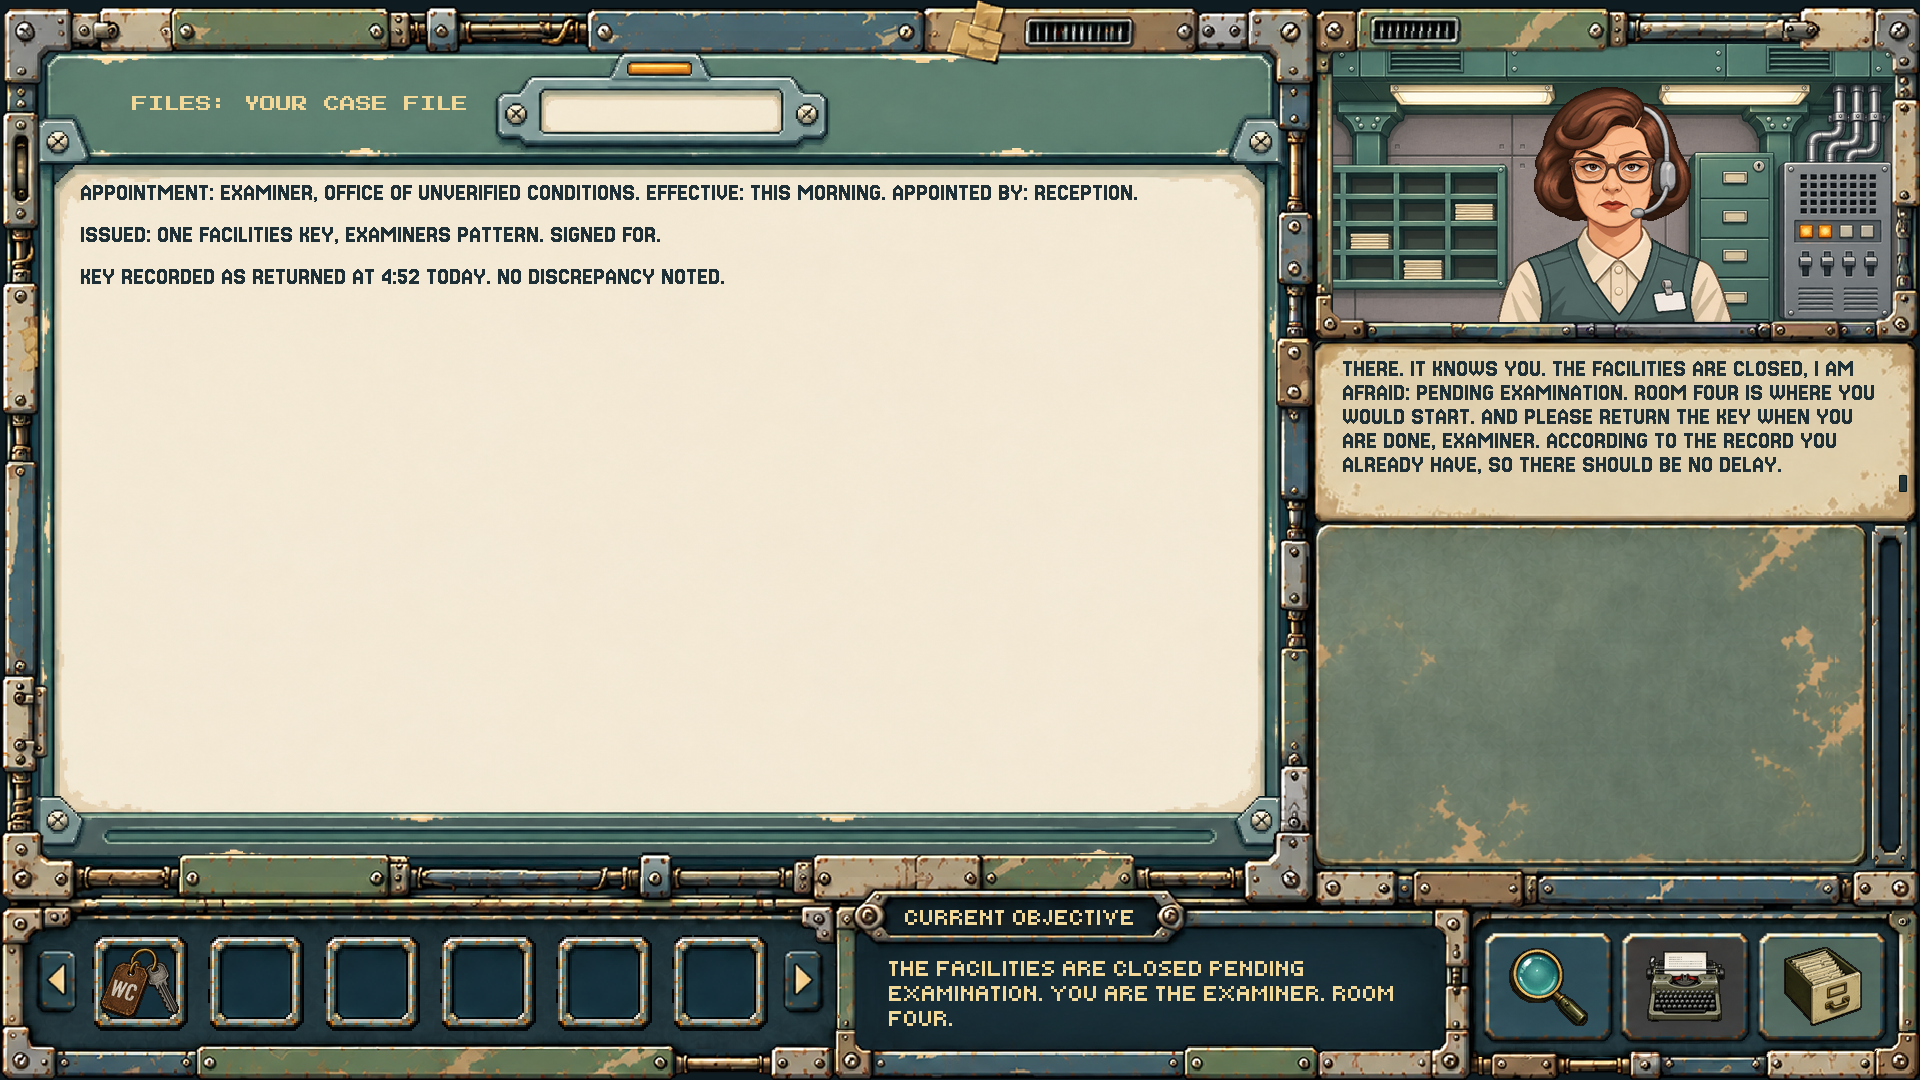
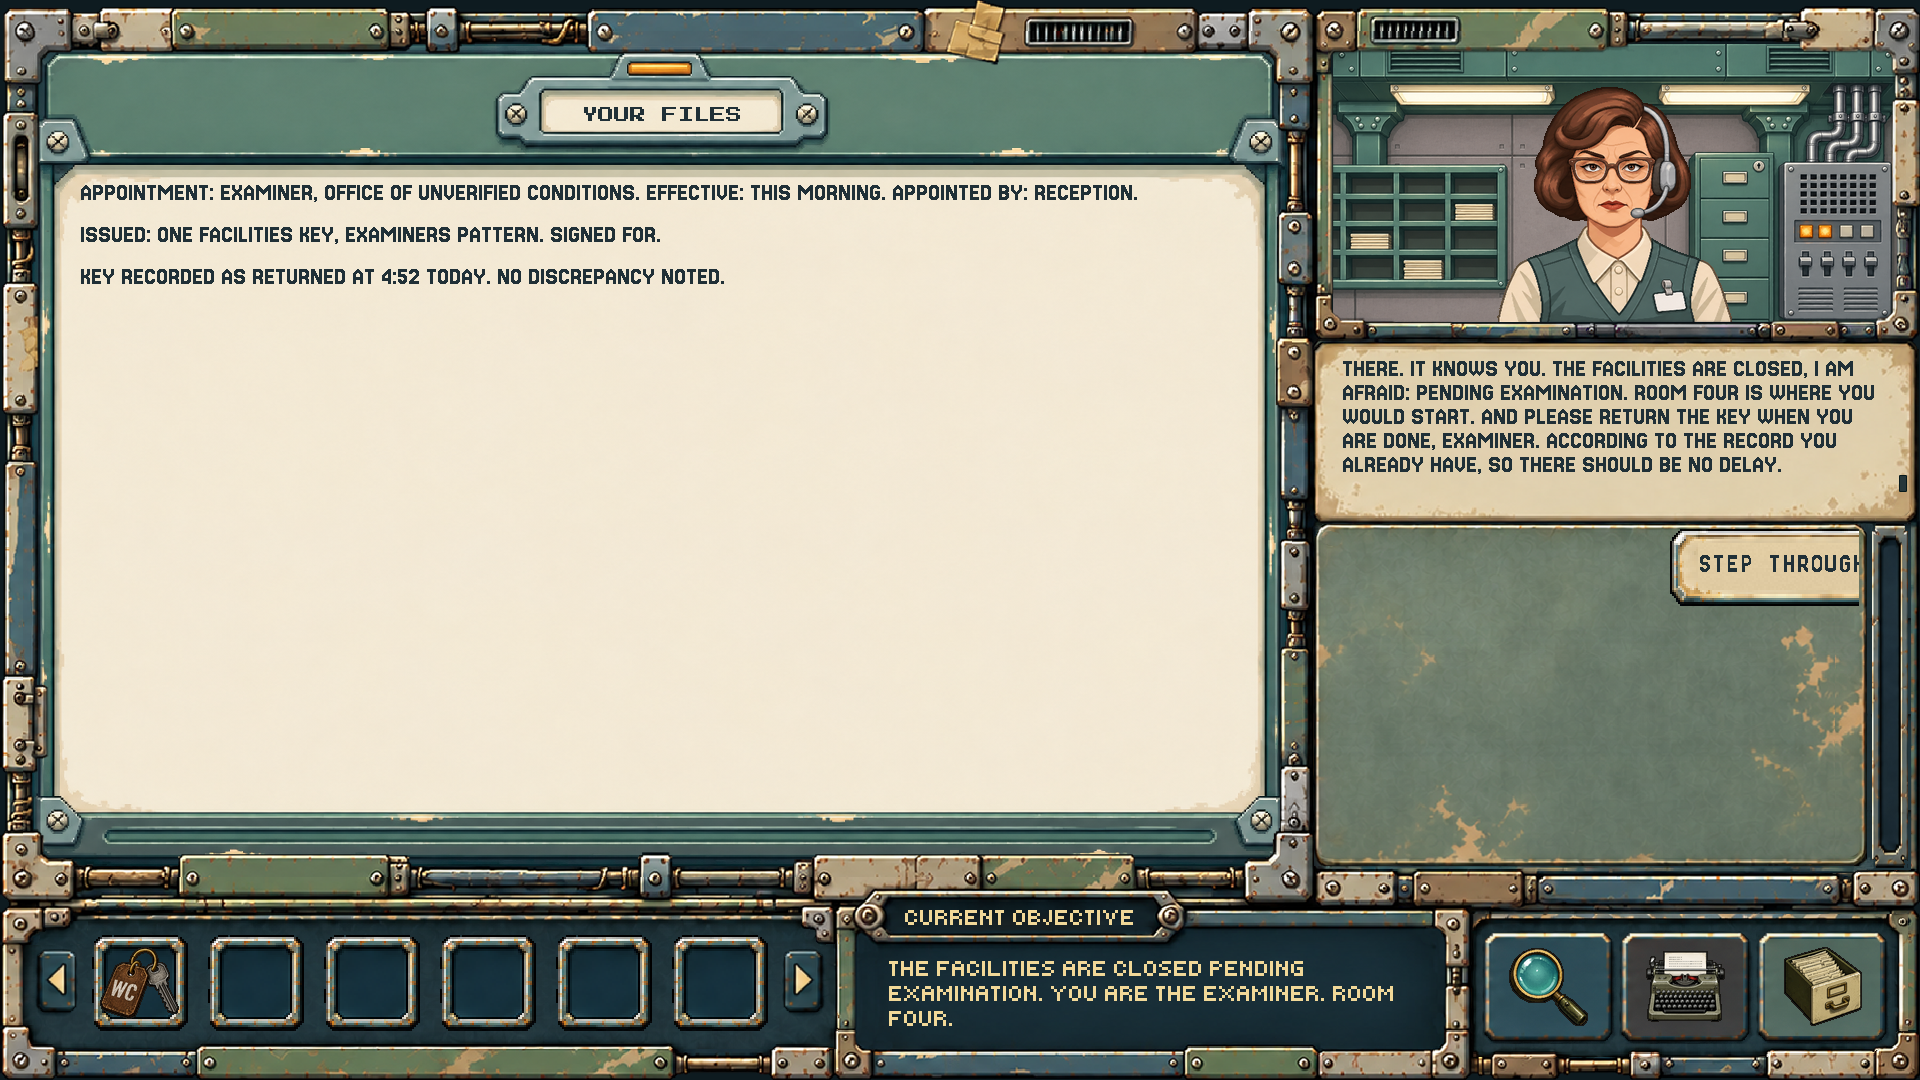
FILES title: YOUR FILES, dark ink, centred in the panel's label plate
Owner ruling 2026-11-07. The title (160 px in the Labels face) is centred on
(630, 70), the middle of the FILES panel's label plate (inside x 512-748,
y 52-87), from G.TUNING.overlay.filesTitleCenterX / Y; lab tunables
overlay.filesTitleX / Y (71 total). NOTES title unchanged. Game QA checks the
dark ink and that the title sits wholly inside the plate, centred within 1 px.
QA on this commit's tree: route 38/38, lab 85/85, game 447/447. docs/62, docs/63.

diff --git a/game/qa/run_qa.js b/game/qa/run_qa.js
@@ -1069,7 +1069,7 @@ async function suite(name, base, requests) {
 
   // Pixels: where the text canvas is empty and the shell is clear, the screen is the overlay's own
   // panel file, 1:1 (NOTES: notes_files_panel.png, FILES: files_panel.png).
-  async function panelPixels(label, art) {
+  async function panelPixels(label, art, plate) {
     const S = measured.sceneAperture.rect;
     c(label + ' shows its own panel image', (await page.$eval('#overlayPanel', (e) => e.dataset.art)) === art, art);
     const scr = decodePng(await page.screenshot({ clip: { x: 0, y: 0, width: 1920, height: 1080 } }));
@@ -1077,16 +1077,31 @@ async function suite(name, base, requests) {
     const panel = png(art), shell = png(SHELL_PATH);
     let checked = 0, bad = 0, textPx = 0, first = null;
     const inks = { title: new Set(), body: new Set() };
+    const tb = [1e9, 1e9, -1, -1];
     for (let y = 0; y < 822; y++) for (let x = 0; x < 1255; x++) {
       const t = pxAt(cvPng, x, y);
-      if (t[3] !== 0) { textPx++; (y < 116 ? inks.title : inks.body).add(t.slice(0, 3).join()); continue; }
+      if (t[3] !== 0) {
+        textPx++;
+        (y < 116 ? inks.title : inks.body).add(t.slice(0, 3).join());
+        if (y < 116) { tb[0] = Math.min(tb[0], x); tb[1] = Math.min(tb[1], y); tb[2] = Math.max(tb[2], x); tb[3] = Math.max(tb[3], y); }
+        continue;
+      }
       if (pxAt(shell, S[0] + x, S[1] + y)[3] !== 0) continue;
       checked++;
       if (!sameRgb(pxAt(panel, x, y), pxAt(scr, S[0] + x, S[1] + y))) { bad++; first = first || { x, y }; }
     }
     c(label + ': every clear-shell, text-free overlay pixel equals its 1255x822 panel file 1:1', checked > 800000 && bad === 0 && textPx > 1000, { checked, bad, textPx, first });
-    c(label + ' ink: light title on the teal band, dark text on the cream reading area (one ink each, hard-edged)',
-      inks.title.size === 1 && inks.body.size === 1 && [...inks.body][0] === '32,48,55', { title: [...inks.title], body: [...inks.body] });
+    if (!plate) {
+      c(label + ' ink: light title on the teal band, dark text on the cream reading area (one ink each, hard-edged)',
+        inks.title.size === 1 && [...inks.title][0] !== '32,48,55' && inks.body.size === 1 && [...inks.body][0] === '32,48,55', { title: [...inks.title], body: [...inks.body] });
+    } else {
+      // plate = [x0, y0, x1, y1] inside the label plate's border, inclusive; centre [cx, cy].
+      const cx = (tb[0] + tb[2] + 1) / 2, cy = (tb[1] + tb[3] + 1) / 2;
+      c(label + ' ink: dark title and dark text (one ink each, hard-edged)', inks.title.size === 1 && [...inks.title][0] === '32,48,55'
+        && inks.body.size === 1 && [...inks.body][0] === '32,48,55', { title: [...inks.title], body: [...inks.body] });
+      c(label + ' title sits wholly inside the label plate, centred on it (within 1 px)', tb[0] > plate[0] && tb[1] > plate[1] && tb[2] < plate[2] && tb[3] < plate[3]
+        && Math.abs(cx - plate[4]) <= 1 && Math.abs(cy - plate[5]) <= 1, { inkBox: tb, centre: [cx, cy], plate });
+    }
   }
 
   // Transcript: NOTES and FILES ---------------------------------------------------------------
@@ -1141,9 +1156,9 @@ async function suite(name, base, requests) {
     && /RETURNED AT 4:52/.test(await page.$eval('#overlay canvas', (c2) => c2.dataset.text)));
   await shot(page, '10_files_case_file.png');
   await shot(page, '00h_files_open.png');
-  await panelPixels('FILES', FILES_PANEL);
-  c('the FILES title sits on the panel, fixed outside the scrolled body', (await page.$eval('#overlayCanvas', (c2) => c2.dataset.title)) === 'FILES: YOUR CASE FILE'
-    && /^FILES: YOUR CASE FILE\nAPPOINTMENT: EXAMINER/.test(await page.$eval('#overlayCanvas', (c2) => c2.dataset.text)));
+  await panelPixels('FILES', FILES_PANEL, [512, 52, 748, 87, 630, 70]);
+  c('the FILES title is YOUR FILES, fixed outside the scrolled body', (await page.$eval('#overlayCanvas', (c2) => c2.dataset.title)) === 'YOUR FILES'
+    && /^YOUR FILES\nAPPOINTMENT: EXAMINER/.test(await page.$eval('#overlayCanvas', (c2) => c2.dataset.text)));
   await page.click('#util-2');
   c('pressing FILES again closes the overlay', await page.$eval('#overlay', (e) => e.style.display === 'none'));
   await page.click('#util-2');

diff --git a/game/js/stage.js b/game/js/stage.js
@@ -1064,8 +1064,8 @@
   // NOTES (transcript) and FILES (case file) ---------------------------------------------
   // Shown over the scene window, which they never leave, each on its own production panel
   // (1255x822, the scene aperture, docs/60 and docs/63): NOTES on the records panel, FILES on the
-  // case-file panel. Text regions, in panel coordinates, fit both panels' blank areas: the title on
-  // the teal band (y 11-108), the body on the cream reading area (NOTES x 31-1222 y 122-776, FILES
+  // case-file panel. Text regions, in panel coordinates, fit both panels' blank areas: the NOTES
+  // title on the teal band (y 11-108), the FILES title in its label plate, the body on the cream reading area (NOTES x 31-1222 y 122-776, FILES
   // x 28-1225 y 133-767). The body keeps the previous left edge and wrap width, so lines break
   // exactly as before.
   G.OVERLAY_ART = {
@@ -1105,7 +1105,7 @@
   }
 
   function overlayTitle() {
-    return ui.overlay === 'notes' ? 'NOTES: EVERYTHING SAID AT RECEPTION' : 'FILES: YOUR CASE FILE';
+    return ui.overlay === 'notes' ? 'NOTES: EVERYTHING SAID AT RECEPTION' : 'YOUR FILES';
   }
 
   function overlayLines() {
@@ -1173,8 +1173,15 @@
     ctx.imageSmoothingEnabled = false;
     var title = overlayTitle();
     var head = document.createElement('canvas');
-    T.draw(head, [{ text: title, role: 'labels' }], 'light', OV().lineHeight, OV().bodyWidth, OV().lineHeight, undefined, 'labels');
-    ctx.drawImage(head, OV().titleX, OV().titleCenterY - Math.floor(T.capHeight('labels') / 2));
+    if (ui.overlay === 'files') {
+      // Dark ink, centred in the FILES panel's label plate.
+      var size = T.label(head, title, 'dark', 'labels');
+      var rows = inkRows(head);
+      ctx.drawImage(head, OV().filesTitleCenterX - Math.floor(size[0] / 2), OV().filesTitleCenterY - Math.round((rows[0] + rows[1]) / 2));
+    } else {
+      T.draw(head, [{ text: title, role: 'labels' }], 'light', OV().lineHeight, OV().bodyWidth, OV().lineHeight, undefined, 'labels');
+      ctx.drawImage(head, OV().titleX, OV().titleCenterY - Math.floor(T.capHeight('labels') / 2));
+    }
     var text = document.createElement('canvas');
     // Dark ink on the cream reading surface.
     T.draw(text, shown.map(function (l, i) { return { text: l.text, role: l.role, gap: i ? l.gap : 0 }; }), 'dark', OV().lineHeight, OV().bodyWidth, OV().bodyHeight, undefined, 'dialogue');
@@ -1184,7 +1191,7 @@
     c.dataset.lines = lines.length;
     c.dataset.scroll = ui.overlayScroll;
     c.dataset.text = [title].concat(lines.map(function (l) { return l.text; })).join('\n');
-    els.overlay.setAttribute('aria-label', ui.overlay === 'notes' ? 'Notes: transcript' : 'Files: case file');
+    els.overlay.setAttribute('aria-label', ui.overlay === 'notes' ? 'Notes: transcript' : 'Files: your files');
   }
   G.renderOverlay = renderOverlay;
 

diff --git a/tools/m2-reception-polish-lab/tunables.js b/tools/m2-reception-polish-lab/tunables.js
@@ -140,10 +140,14 @@
       read: function (G) { return tun(G).inspector.textY; }, write: function (G, v) { tun(G).inspector.textY = v; } },
 
     // NOTES / FILES text (1255x822 panel art at 1x, scene-only, no scrollbar).
-    { key: 'overlay.titleX', s: 'overlay', label: 'Title X', unit: 'px', src: 'G.TUNING.overlay.titleX', range: [-60, 60], rel: true,
+    { key: 'overlay.titleX', s: 'overlay', label: 'NOTES title X', unit: 'px', src: 'G.TUNING.overlay.titleX', range: [-60, 60], rel: true,
       read: function (G) { return tun(G).overlay.titleX; }, write: function (G, v) { tun(G).overlay.titleX = v; } },
-    { key: 'overlay.titleY', s: 'overlay', label: 'Title middle row Y', unit: 'px', src: 'G.TUNING.overlay.titleCenterY', range: [-30, 30], rel: true,
+    { key: 'overlay.titleY', s: 'overlay', label: 'NOTES title middle row Y', unit: 'px', src: 'G.TUNING.overlay.titleCenterY', range: [-30, 30], rel: true,
       read: function (G) { return tun(G).overlay.titleCenterY; }, write: function (G, v) { tun(G).overlay.titleCenterY = v; } },
+    { key: 'overlay.filesTitleX', s: 'overlay', label: 'FILES title centre X (label plate)', unit: 'px', src: 'G.TUNING.overlay.filesTitleCenterX', range: [-40, 40], rel: true,
+      read: function (G) { return tun(G).overlay.filesTitleCenterX; }, write: function (G, v) { tun(G).overlay.filesTitleCenterX = v; } },
+    { key: 'overlay.filesTitleY', s: 'overlay', label: 'FILES title middle row Y (label plate)', unit: 'px', src: 'G.TUNING.overlay.filesTitleCenterY', range: [-12, 12], rel: true,
+      read: function (G) { return tun(G).overlay.filesTitleCenterY; }, write: function (G, v) { tun(G).overlay.filesTitleCenterY = v; } },
     { key: 'overlay.bodyX', s: 'overlay', label: 'Body X', unit: 'px', src: 'G.TUNING.overlay.bodyX', range: [-30, 40], rel: true,
       read: function (G) { return tun(G).overlay.bodyX; }, write: function (G, v) { tun(G).overlay.bodyX = v; } },
     { key: 'overlay.bodyY', s: 'overlay', label: 'Body Y', unit: 'px', src: 'G.TUNING.overlay.bodyY', range: [-30, 40], rel: true,

diff --git a/game/js/tuning.js b/game/js/tuning.js
@@ -30,11 +30,15 @@
     // the item text's x relative to the choice text inset, and its top.
     inspector: { artDx: 0, artDy: 0, closeDx: 0, closeDy: 0, textDx: 0, textY: 12 },
 
-    // NOTES / FILES overlay (js/stage.js), in panel coordinates: title on the teal plate, body on
-    // the cream reading area, and the body line height.
+    // NOTES / FILES overlay (js/stage.js), in panel coordinates: the NOTES title at (titleX, centred
+    // on titleCenterY) in light ink on the teal band; the FILES title (YOUR FILES, owner ruling
+    // 2026-11-07, docs/63) in dark ink centred on (filesTitleCenterX, filesTitleCenterY), the middle
+    // of the FILES panel's label plate (inside x 512-748, y 52-87); the body box on the cream
+    // reading area, and the body line height.
     // notesPanel picks the NOTES panel art: 1 = notes_files_panel.png (production), 2 = the owner's
     // notes_panel_v2.png candidate (docs/63). FILES always uses its own files_panel.png.
-    overlay: { titleX: 100, titleCenterY: 60, bodyX: 48, bodyY: 140, bodyWidth: 1159, bodyHeight: 620, lineHeight: 26, notesPanel: 1 },
+    overlay: { titleX: 100, titleCenterY: 60, bodyX: 48, bodyY: 140, bodyWidth: 1159, bodyHeight: 620, lineHeight: 26, notesPanel: 1,
+      filesTitleCenterX: 630, filesTitleCenterY: 70 },
 
     // Dialogue-turn timing not held in the layout bundle: the beat between a finished line and
     // the choices arriving (js/flow.js), and the stagger between arriving cards (js/stage.js).

diff --git a/docs/62_M2_RECEPTION_POLISH_LAB.md b/docs/62_M2_RECEPTION_POLISH_LAB.md
@@ -61,7 +61,7 @@ Art complete is not polish complete. The lab is the final visual and interaction
 - **Inventory:** the slot concept and slot / arrow art.
   - Production shows **6 slots** (`slotCount` 6; a 7-slot layout exists in the data). The brief said "7-slot". The lab keeps the count locked as committed and does not reopen it.
 
-## 5. Tunables (69)
+## 5. Tunables (71)
 
 Spatial values are whole pixels, and timings whole milliseconds; both must be integers. "Bounds" are the import / control limits.
 
@@ -154,8 +154,10 @@ Spatial values are whole pixels, and timings whole milliseconds; both must be in
 
 | Key | Meaning | Production | Bounds | Source |
 |---|---|---|---|---|
-| `overlay.titleX` | Title X | 100 px | 40...160 | `G.TUNING.overlay.titleX` |
-| `overlay.titleY` | Title middle row Y | 60 px | 30...90 | `G.TUNING.overlay.titleCenterY` |
+| `overlay.titleX` | NOTES title X | 100 px | 40...160 | `G.TUNING.overlay.titleX` |
+| `overlay.titleY` | NOTES title middle row Y | 60 px | 30...90 | `G.TUNING.overlay.titleCenterY` |
+| `overlay.filesTitleX` | FILES title (`YOUR FILES`) centre X, in the label plate (docs/63) | 630 px | 590...670 | `G.TUNING.overlay.filesTitleCenterX` |
+| `overlay.filesTitleY` | FILES title middle row Y, in the label plate | 70 px | 58...82 | `G.TUNING.overlay.filesTitleCenterY` |
 | `overlay.bodyX` | Body X | 48 px | 18...88 | `G.TUNING.overlay.bodyX` |
 | `overlay.bodyY` | Body Y | 140 px | 110...180 | `G.TUNING.overlay.bodyY` |
 | `overlay.bodyWidth` | Body width | 1159 px | 1039...1189 | `G.TUNING.overlay.bodyWidth` |
@@ -259,7 +261,7 @@ The lab page saves the changes, the selected state, the view, fit and toggles in
   - the game has no storage API or lab identifier, and `game/index.html` loads no lab script;
   - the lab stage loads the production scripts and CSS from `game/` (no copies);
   - the state shortcuts never assign narrative state.
-- **Defaults:** the lab opens on exact production values, which equal the registry read on a plain `game/index.html`. All 69 are integers, and there are no changes at start.
+- **Defaults:** the lab opens on exact production values, which equal the registry read on a plain `game/index.html`. All 71 are integers, and there are no changes at start.
 - **PRODUCTION vs LAB:** **pixel-identical at defaults** in 13 representative states (1920 × 1080, 1:1, after CSS transitions settle).
 - **States:**
   - every state loads where it should (node, inspector, overlay, slip, READ mark);
@@ -272,7 +274,7 @@ The lab page saves the changes, the selected state, the view, fit and toggles in
   - the portrait stays native 1×, a lab nudge (`portrait.npcY` 3) moves only the NPC layer by whole pixels, and the PRODUCTION frame is unaffected.
 - **Values and export:**
   - values are whole numbers (6.6 → 7);
-  - COPY CHANGES holds only the changed keys, with the schema and base SHA; COPY ALL holds all 69;
+  - COPY CHANGES holds only the changed keys, with the schema and base SHA; COPY ALL holds all 71;
   - the helper toggles, freeze and hold-X never change the export;
   - the hide-shell and bounds toggles act on the stage frames only.
 - **Persistence:** values persist across a reload.
@@ -299,7 +301,7 @@ Lab screenshots (Chromium): `tools/m2-reception-polish-lab/qa/screenshots/lab_ov
 The checks were run on the final commit:
 
 - `node game/qa/validate_route.js`: **38/38**.
-- `game/qa/run_qa.js`: **445/445** (static 37/37, Chromium 204/204, Firefox 204/204), including the separate FILES panel (docs/63). Before docs/63 it was 431/431.
+- `game/qa/run_qa.js`: **447/447** (static 37/37, Chromium 205/205, Firefox 205/205), including the separate FILES panel and its `YOUR FILES` plate title (docs/63). Before docs/63 it was 431/431.
 
 The production values are unchanged (§3).
 

diff --git a/docs/63_M2_RECEPTION_OVERLAY_PANELS_AND_LIVE_LAB.md b/docs/63_M2_RECEPTION_OVERLAY_PANELS_AND_LIVE_LAB.md
@@ -21,11 +21,13 @@ The owner decided this, so it is applied to the game rather than left as a lab o
   - `G.OVERLAY_ART` in `game/js/stage.js` is now per overlay: `notes`, `files`, and the `notesV2` candidate (§2).
   - `renderOverlay` puts the open overlay's own preloaded image under the text canvas, as `#overlay > img#overlayPanel, canvas#overlayCanvas`. The image was formerly `img#notesFilesPanel`.
   - `main.js` decodes the NOTES panel and the FILES panel before ready.
-- **The text:** the title and body regions are unchanged and fit the FILES panel. The title at (100, centred on 60) sits on the teal band. The body box (48, 140, 1159 × 620) lies inside the FILES cream area (x 28–1225, y 133–767).
-- **Open owner question:** the FILES panel has a small cream label plate at the top centre (inside about x 512–745, y 54–86). In production it is left blank, and the title stays at the left in light ink.
-  - The current title, `FILES: YOUR CASE FILE`, is 336 px wide in the Labels face, so it does not fit the plate.
-  - `FILES` (80 px) or `CASE FILE` (144 px) would fit, centred in dark ink.
-  - That is a copy and layout decision for the owner, so nothing has been changed.
+- **The body:** the body box (48, 140, 1159 × 620) is unchanged. It lies inside the FILES cream area (x 28–1225, y 133–767).
+- **The FILES title (owner ruling, 2026-11-07):** **`YOUR FILES`**, in dark ink, centred in the panel's label plate.
+  - The plate's inside spans x 512–748 and y 52–87, so the title is centred on (630, 70).
+  - The title is 160 px wide in the Labels face. The owner's fallback, `FILES` alone, was not needed.
+  - The old `FILES: YOUR CASE FILE` (336 px) did not fit the plate.
+  - The position comes from `G.TUNING.overlay.filesTitleCenterX` / `filesTitleCenterY`. In the lab these are `overlay.filesTitleX` / `overlay.filesTitleY`.
+  - The NOTES title is unchanged.
 
 ## 2. NOTES background v2: a lab toggle
 
@@ -66,7 +68,9 @@ See docs/62 §10 for the full run, which includes these checks.
 - both production panels are decoded before ready and served as the approved bytes;
 - v2 is never requested;
 - the overlay structure is checked;
-- every text-free, clear-shell pixel equals the overlay's own panel 1:1, for **both** NOTES and FILES, with the ink rules unchanged.
+- every text-free, clear-shell pixel equals the overlay's own panel 1:1, for **both** NOTES and FILES;
+- the NOTES title is light ink on the teal band;
+- the FILES title is `YOUR FILES` in dark ink, wholly inside the label plate and centred on it (within 1 px).
 
 **Lab QA:**
 - a slider drag is live, step by step, with no reload;
